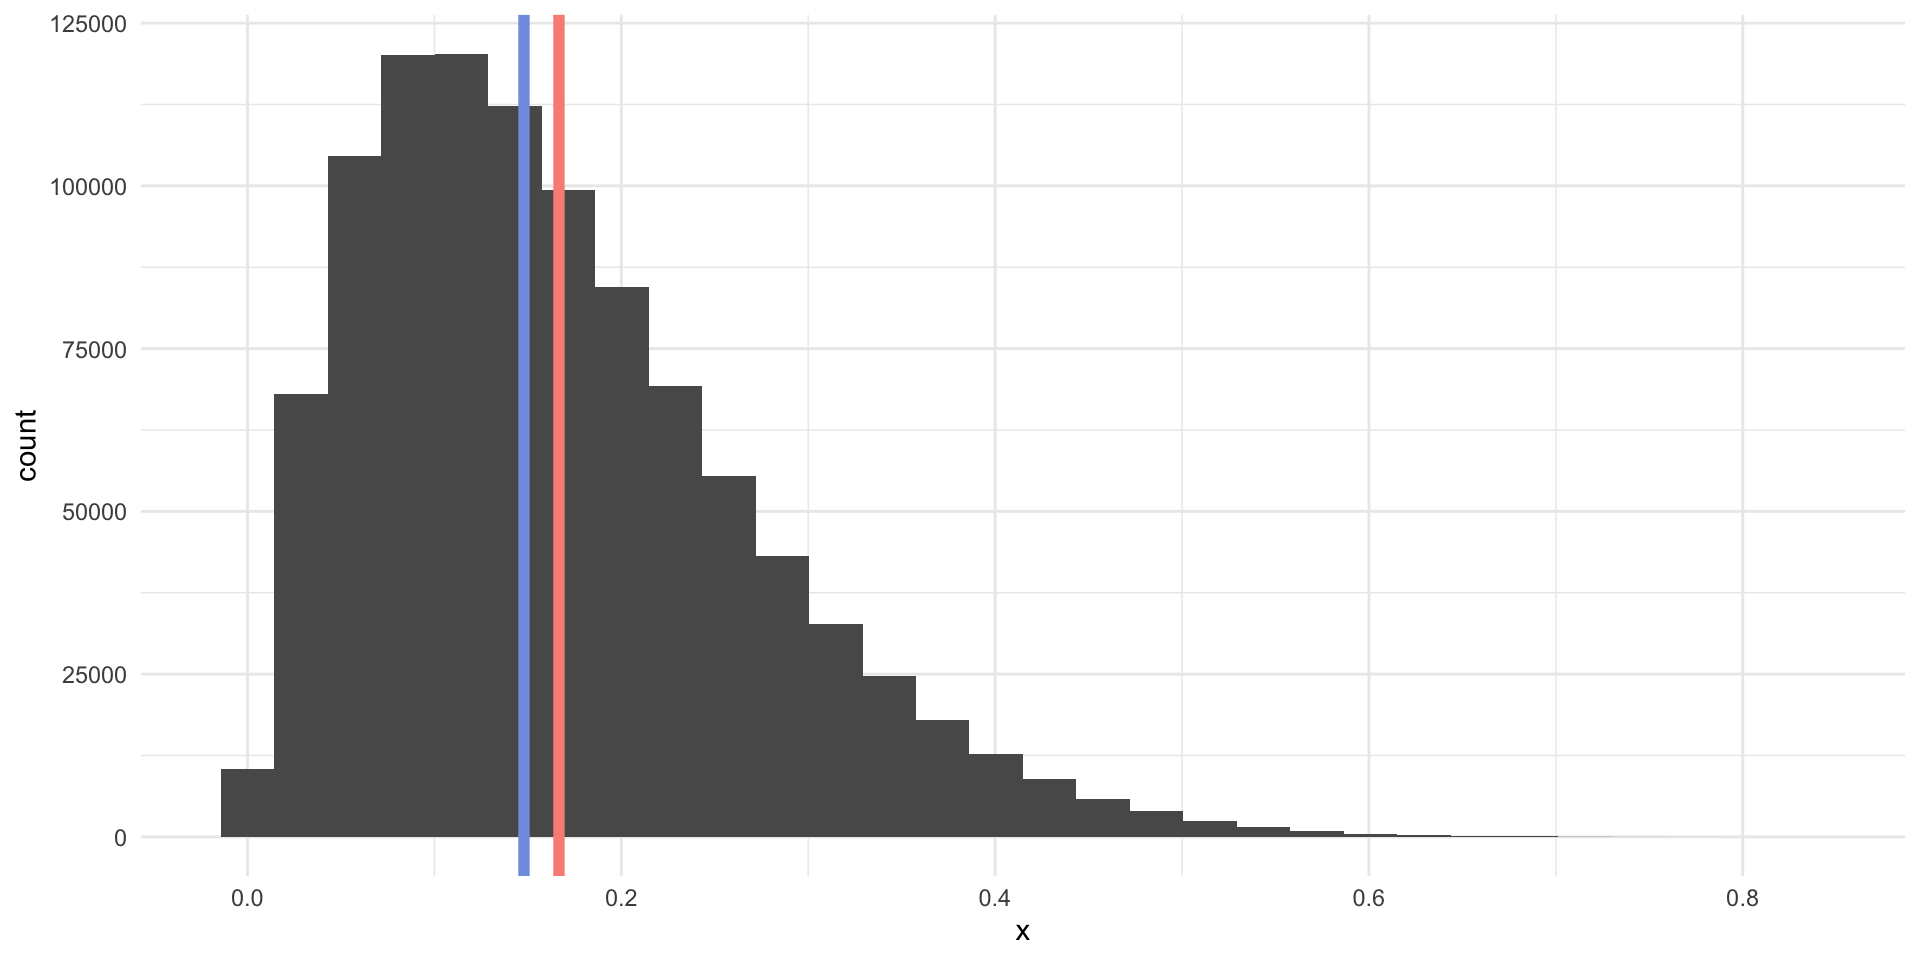
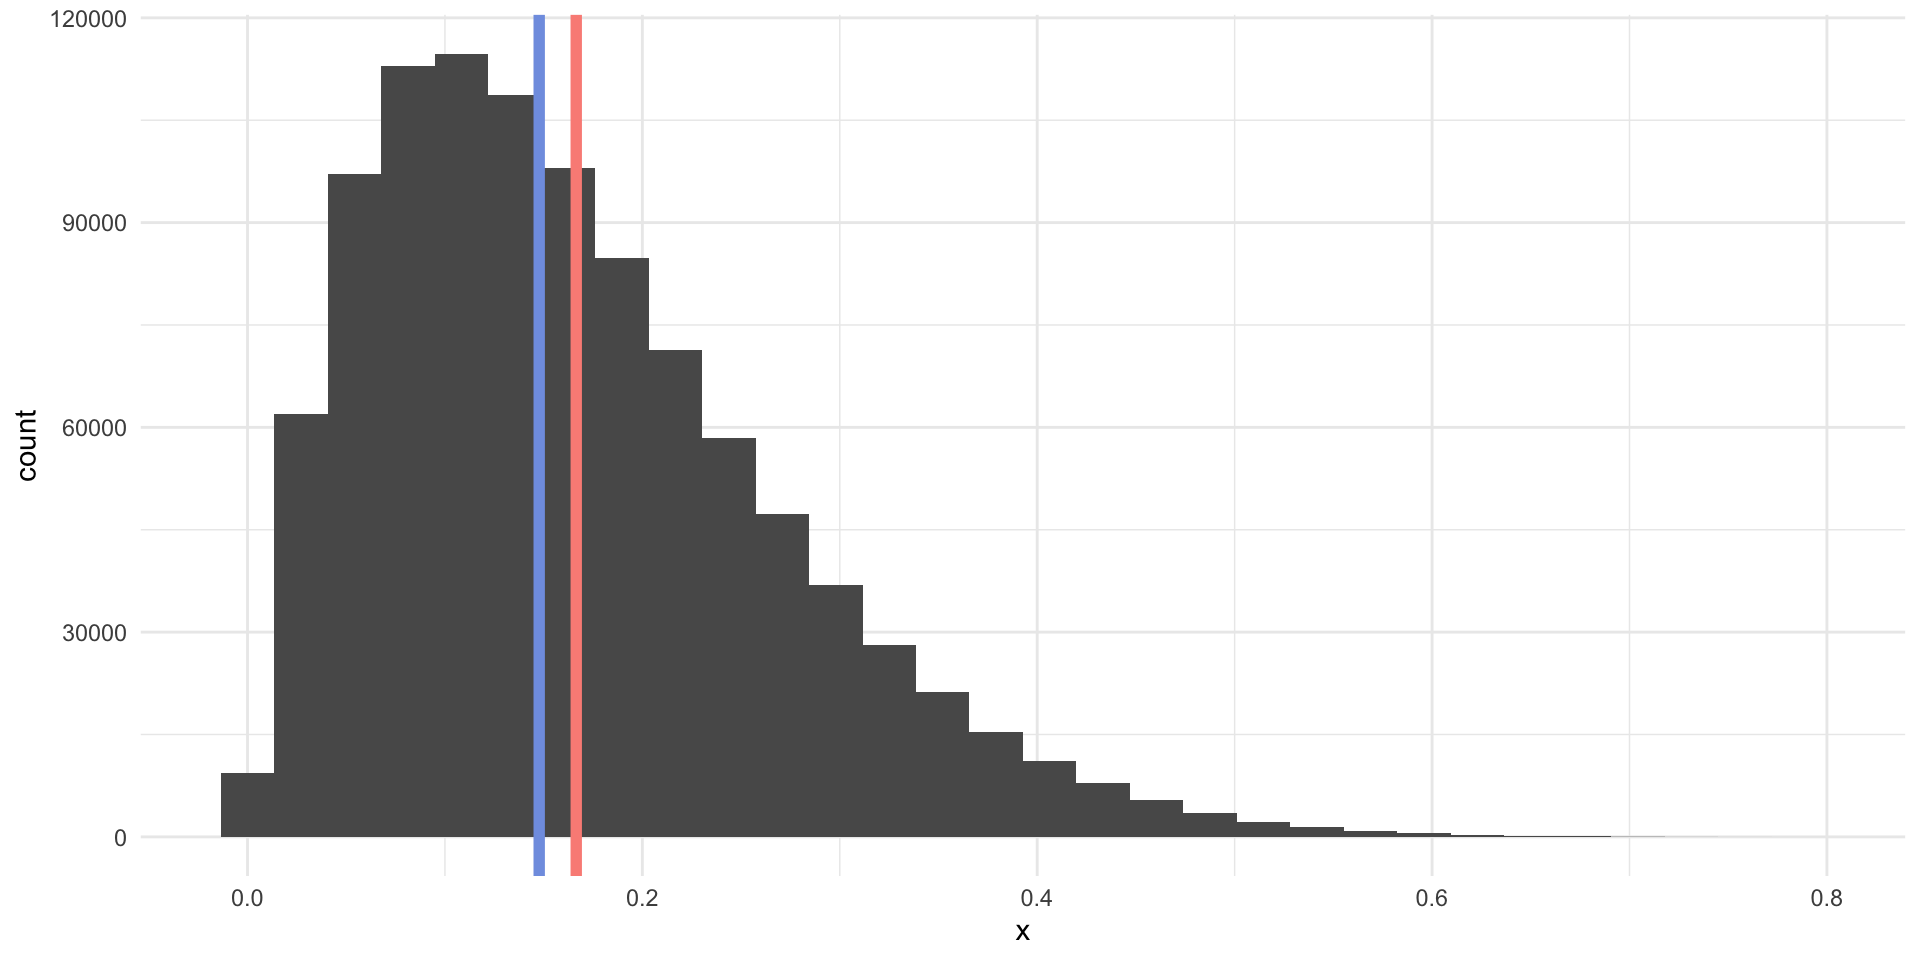
Update schedule to reflect updated syllabus

diff --git a/docs/schedule.html b/docs/schedule.html
@@ -143,106 +143,106 @@ ul.task-list li input[type="checkbox"] {
 </thead>
 <tbody>
 <tr class="odd">
-<td style="text-align: left; width: 12%; padding-right: 20px;">28 August</td>
+<td style="text-align: left; width: 12%; padding-right: 20px;">2023-08-28</td>
 <td style="text-align: left; width: 52%;">Course Introduction</td>
 <td style="text-align: center; width: 12%;"><a href="https://hgoers.github.io/GVPT622/content/01-introduction.html"><i class="fa-solid fa-book" aria-label="book"></i></a></td>
 <td style="text-align: center; width: 12%;"><p><i class="fa-solid fa-gears" aria-label="gears"></i></p></td>
-<td style="text-align: center; width: 12%;"><p><i class="fa-solid fa-pen-ruler" aria-label="pen-ruler"></i></p></td>
+<td style="text-align: center; width: 12%;"><a href="http://localhost:3933/content/https://github.com/hgoers/GVPT622_problem_sets/blob/main/problem_set_1.qmd"><i class="fa-solid fa-pen-ruler" aria-label="pen-ruler"></i></a></td>
 </tr>
 <tr class="even">
-<td style="text-align: left; width: 12%; padding-right: 20px;">11 September</td>
+<td style="text-align: left; width: 12%; padding-right: 20px;">2023-09-04</td>
+<td style="text-align: left; width: 52%;">No class</td>
+<td style="text-align: center; width: 12%;"><p><i class="fa-solid fa-book" aria-label="book"></i></p></td>
+<td style="text-align: center; width: 12%;"><p><i class="fa-solid fa-gears" aria-label="gears"></i></p></td>
+<td style="text-align: center; width: 12%;"><p><i class="fa-solid fa-pen-ruler" aria-label="pen-ruler"></i></p></td>
+</tr>
+<tr class="odd">
+<td style="text-align: left; width: 12%; padding-right: 20px;">2023-09-11</td>
 <td style="text-align: left; width: 52%;">Descriptive Statistics</td>
 <td style="text-align: center; width: 12%;"><a href="https://hgoers.github.io/GVPT622/content/02-descriptive_statistics.html"><i class="fa-solid fa-book" aria-label="book"></i></a></td>
 <td style="text-align: center; width: 12%;"><a href="http://localhost:3933/content/02-descriptive_statistics.html#section"><i class="fa-solid fa-gears" aria-label="gears"></i></a></td>
 <td style="text-align: center; width: 12%;"><p><i class="fa-solid fa-pen-ruler" aria-label="pen-ruler"></i></p></td>
 </tr>
-<tr class="odd">
-<td style="text-align: left; width: 12%; padding-right: 20px;">18 September</td>
-<td style="text-align: left; width: 52%;">Bivariate Relationships</td>
+<tr class="even">
+<td style="text-align: left; width: 12%; padding-right: 20px;">2023-09-18</td>
+<td style="text-align: left; width: 52%;">Relationships Between Two Variables</td>
 <td style="text-align: center; width: 12%;"><a href="https://hgoers.github.io/GVPT622/content/03-bivariate_relationships.html"><i class="fa-solid fa-book" aria-label="book"></i></a></td>
 <td style="text-align: center; width: 12%;"><a href="http://localhost:3933/content/03-bivariate_relationships.html#section"><i class="fa-solid fa-gears" aria-label="gears"></i></a></td>
 <td style="text-align: center; width: 12%;"><p><i class="fa-solid fa-pen-ruler" aria-label="pen-ruler"></i></p></td>
 </tr>
-<tr class="even">
-<td style="text-align: left; width: 12%; padding-right: 20px;">25 September</td>
+<tr class="odd">
+<td style="text-align: left; width: 12%; padding-right: 20px;">2023-09-25</td>
 <td style="text-align: left; width: 52%;">Research Design</td>
 <td style="text-align: center; width: 12%;"><a href="https://hgoers.github.io/GVPT622/content/04-research_design.html"><i class="fa-solid fa-book" aria-label="book"></i></a></td>
 <td style="text-align: center; width: 12%;"><p><i class="fa-solid fa-gears" aria-label="gears"></i></p></td>
 <td style="text-align: center; width: 12%;"><p><i class="fa-solid fa-pen-ruler" aria-label="pen-ruler"></i></p></td>
 </tr>
-<tr class="odd">
-<td style="text-align: left; width: 12%; padding-right: 20px;">2 October</td>
-<td style="text-align: left; width: 52%;">Applications</td>
+<tr class="even">
+<td style="text-align: left; width: 12%; padding-right: 20px;">2023-10-02</td>
+<td style="text-align: left; width: 52%;">Applications &amp; Midterm Exam Review</td>
 <td style="text-align: center; width: 12%;"><a href="https://hgoers.github.io/GVPT622/content/05-applications.html"><i class="fa-solid fa-book" aria-label="book"></i></a></td>
 <td style="text-align: center; width: 12%;"><p><i class="fa-solid fa-gears" aria-label="gears"></i></p></td>
 <td style="text-align: center; width: 12%;"><p><i class="fa-solid fa-pen-ruler" aria-label="pen-ruler"></i></p></td>
 </tr>
-<tr class="even">
-<td style="text-align: left; width: 12%; padding-right: 20px;">9 October</td>
-<td style="text-align: left; width: 52%;">Mid-term Exam I</td>
-<td style="text-align: center; width: 12%;"><p><i class="fa-solid fa-book" aria-label="book"></i></p></td>
+<tr class="odd">
+<td style="text-align: left; width: 12%; padding-right: 20px;">2023-10-09</td>
+<td style="text-align: left; width: 52%;">Probability Theory</td>
+<td style="text-align: center; width: 12%;"><a href="https://hgoers.github.io/GVPT622/content/06-probability_theory.html"><i class="fa-solid fa-book" aria-label="book"></i></a></td>
 <td style="text-align: center; width: 12%;"><a href="http://localhost:3933/content/06-probability_theory.html#section"><i class="fa-solid fa-gears" aria-label="gears"></i></a></td>
 <td style="text-align: center; width: 12%;"><p><i class="fa-solid fa-pen-ruler" aria-label="pen-ruler"></i></p></td>
 </tr>
-<tr class="odd">
-<td style="text-align: left; width: 12%; padding-right: 20px;">16 October</td>
-<td style="text-align: left; width: 52%;">Probability Theory</td>
-<td style="text-align: center; width: 12%;"><a href="https://hgoers.github.io/GVPT622/content/06-probability_theory.html"><i class="fa-solid fa-book" aria-label="book"></i></a></td>
+<tr class="even">
+<td style="text-align: left; width: 12%; padding-right: 20px;">2023-10-16</td>
+<td style="text-align: left; width: 52%;">Hypothesis Testing I</td>
+<td style="text-align: center; width: 12%;"><a href="https://hgoers.github.io/GVPT622/content/07-statistical_inference.html"><i class="fa-solid fa-book" aria-label="book"></i></a></td>
 <td style="text-align: center; width: 12%;"><a href="http://localhost:3933/content/07-statistical_inference.html#section"><i class="fa-solid fa-gears" aria-label="gears"></i></a></td>
 <td style="text-align: center; width: 12%;"><p><i class="fa-solid fa-pen-ruler" aria-label="pen-ruler"></i></p></td>
 </tr>
-<tr class="even">
-<td style="text-align: left; width: 12%; padding-right: 20px;">23 October</td>
-<td style="text-align: left; width: 52%;">Statistical Inference</td>
-<td style="text-align: center; width: 12%;"><a href="https://hgoers.github.io/GVPT622/content/07-statistical_inference.html"><i class="fa-solid fa-book" aria-label="book"></i></a></td>
-<td style="text-align: center; width: 12%;"><p><i class="fa-solid fa-gears" aria-label="gears"></i></p></td>
-<td style="text-align: center; width: 12%;"><p><i class="fa-solid fa-pen-ruler" aria-label="pen-ruler"></i></p></td>
-</tr>
 <tr class="odd">
-<td style="text-align: left; width: 12%; padding-right: 20px;">30 October</td>
-<td style="text-align: left; width: 52%;">Hypothesis Testing</td>
+<td style="text-align: left; width: 12%; padding-right: 20px;">2023-10-23</td>
+<td style="text-align: left; width: 52%;">Hypothesis Testing II</td>
 <td style="text-align: center; width: 12%;"><a href="https://hgoers.github.io/GVPT622/content/08_hypothesis_testing.html"><i class="fa-solid fa-book" aria-label="book"></i></a></td>
 <td style="text-align: center; width: 12%;"><p><i class="fa-solid fa-gears" aria-label="gears"></i></p></td>
 <td style="text-align: center; width: 12%;"><p><i class="fa-solid fa-pen-ruler" aria-label="pen-ruler"></i></p></td>
 </tr>
 <tr class="even">
-<td style="text-align: left; width: 12%; padding-right: 20px;">6 November</td>
-<td style="text-align: left; width: 52%;">Hypothesis Testing II</td>
+<td style="text-align: left; width: 12%; padding-right: 20px;">2023-10-30</td>
+<td style="text-align: left; width: 52%;">Hypothesis Testing III</td>
 <td style="text-align: center; width: 12%;"><a href="https://hgoers.github.io/GVPT622/content/09-hypothesis_testing.html"><i class="fa-solid fa-book" aria-label="book"></i></a></td>
 <td style="text-align: center; width: 12%;"><p><i class="fa-solid fa-gears" aria-label="gears"></i></p></td>
 <td style="text-align: center; width: 12%;"><p><i class="fa-solid fa-pen-ruler" aria-label="pen-ruler"></i></p></td>
 </tr>
 <tr class="odd">
-<td style="text-align: left; width: 12%; padding-right: 20px;">13 November</td>
-<td style="text-align: left; width: 52%;">Applications II</td>
+<td style="text-align: left; width: 12%; padding-right: 20px;">2023-11-06</td>
+<td style="text-align: left; width: 52%;">Applications &amp; Midterm Exam Review</td>
 <td style="text-align: center; width: 12%;"><a href="https://hgoers.github.io/GVPT622/content/10-applications.html"><i class="fa-solid fa-book" aria-label="book"></i></a></td>
 <td style="text-align: center; width: 12%;"><p><i class="fa-solid fa-gears" aria-label="gears"></i></p></td>
 <td style="text-align: center; width: 12%;"><p><i class="fa-solid fa-pen-ruler" aria-label="pen-ruler"></i></p></td>
 </tr>
 <tr class="even">
-<td style="text-align: left; width: 12%; padding-right: 20px;">20 November</td>
-<td style="text-align: left; width: 52%;">Mid-term Exam II</td>
-<td style="text-align: center; width: 12%;"><p><i class="fa-solid fa-book" aria-label="book"></i></p></td>
-<td style="text-align: center; width: 12%;"><p><i class="fa-solid fa-gears" aria-label="gears"></i></p></td>
-<td style="text-align: center; width: 12%;"><p><i class="fa-solid fa-pen-ruler" aria-label="pen-ruler"></i></p></td>
-</tr>
-<tr class="odd">
-<td style="text-align: left; width: 12%; padding-right: 20px;">27 November</td>
-<td style="text-align: left; width: 52%;">Regression</td>
+<td style="text-align: left; width: 12%; padding-right: 20px;">2023-11-13</td>
+<td style="text-align: left; width: 52%;">Regression Analysis I</td>
 <td style="text-align: center; width: 12%;"><a href="https://hgoers.github.io/GVPT622/content/11-regression.html"><i class="fa-solid fa-book" aria-label="book"></i></a></td>
 <td style="text-align: center; width: 12%;"><p><i class="fa-solid fa-gears" aria-label="gears"></i></p></td>
 <td style="text-align: center; width: 12%;"><p><i class="fa-solid fa-pen-ruler" aria-label="pen-ruler"></i></p></td>
 </tr>
+<tr class="odd">
+<td style="text-align: left; width: 12%; padding-right: 20px;">2023-11-20</td>
+<td style="text-align: left; width: 52%;">No class</td>
+<td style="text-align: center; width: 12%;"><p><i class="fa-solid fa-book" aria-label="book"></i></p></td>
+<td style="text-align: center; width: 12%;"><p><i class="fa-solid fa-gears" aria-label="gears"></i></p></td>
+<td style="text-align: center; width: 12%;"><p><i class="fa-solid fa-pen-ruler" aria-label="pen-ruler"></i></p></td>
+</tr>
 <tr class="even">
-<td style="text-align: left; width: 12%; padding-right: 20px;">4 December</td>
-<td style="text-align: left; width: 52%;">Multiple Regression</td>
+<td style="text-align: left; width: 12%; padding-right: 20px;">2023-11-27</td>
+<td style="text-align: left; width: 52%;">Regression Analysis II</td>
 <td style="text-align: center; width: 12%;"><a href="https://hgoers.github.io/GVPT622/content/12-multiple_regression.html"><i class="fa-solid fa-book" aria-label="book"></i></a></td>
 <td style="text-align: center; width: 12%;"><p><i class="fa-solid fa-gears" aria-label="gears"></i></p></td>
 <td style="text-align: center; width: 12%;"><p><i class="fa-solid fa-pen-ruler" aria-label="pen-ruler"></i></p></td>
 </tr>
 <tr class="odd">
-<td style="text-align: left; width: 12%; padding-right: 20px;">11 December</td>
-<td style="text-align: left; width: 52%;">Conclusion</td>
+<td style="text-align: left; width: 12%; padding-right: 20px;">2023-12-04</td>
+<td style="text-align: left; width: 52%;">Regression Analysis Extensions &amp; Final Exam Review</td>
 <td style="text-align: center; width: 12%;"><a href="https://hgoers.github.io/GVPT622/content/13-conclusion.html"><i class="fa-solid fa-book" aria-label="book"></i></a></td>
 <td style="text-align: center; width: 12%;"><p><i class="fa-solid fa-gears" aria-label="gears"></i></p></td>
 <td style="text-align: center; width: 12%;"><p><i class="fa-solid fa-pen-ruler" aria-label="pen-ruler"></i></p></td>

diff --git a/docs/content/02-descriptive_statistics.html b/docs/content/02-descriptive_statistics.html
@@ -819,16 +819,16 @@ s^2 = \frac{\Sigma(x_i - \bar{x})^2}{n - 1}
 <pre><code># A tibble: 1,000,000 × 4
         x    mean   diff  diff_2
     &lt;dbl&gt;   &lt;dbl&gt;  &lt;dbl&gt;   &lt;dbl&gt;
- 1 -2.10  0.00373 -2.11   4.44  
- 2  0.484 0.00373  0.480  0.231 
- 3  1.44  0.00373  1.44   2.08  
- 4 -1.56  0.00373 -1.56   2.44  
- 5 -3.93  0.00373 -3.93  15.5   
- 6 -3.87  0.00373 -3.87  15.0   
- 7  0.140 0.00373  0.136  0.0185
- 8  1.32  0.00373  1.32   1.73  
- 9 -0.808 0.00373 -0.812  0.659 
-10 -0.589 0.00373 -0.593  0.351 
+ 1  1.12  0.00157  1.12   1.25  
+ 2  2.75  0.00157  2.75   7.55  
+ 3 -1.62  0.00157 -1.62   2.64  
+ 4 -4.40  0.00157 -4.40  19.4   
+ 5  0.675 0.00157  0.674  0.454 
+ 6 -1.12  0.00157 -1.12   1.26  
+ 7 -0.568 0.00157 -0.570  0.324 
+ 8  0.323 0.00157  0.322  0.104 
+ 9  0.201 0.00157  0.200  0.0399
+10  1.06  0.00157  1.06   1.12  
 # ℹ 999,990 more rows</code></pre>
 </div>
 </div>
@@ -838,7 +838,7 @@ s^2 = \frac{\Sigma(x_i - \bar{x})^2}{n - 1}
 <span id="cb29-2"><a href="#cb29-2" aria-hidden="true" tabindex="-1"></a></span>
 <span id="cb29-3"><a href="#cb29-3" aria-hidden="true" tabindex="-1"></a>wide_var</span></code><button title="Copy to Clipboard" class="code-copy-button"><i class="bi"></i></button></pre></div>
 <div class="cell-output cell-output-stdout">
-<pre><code>[1] 3.990402</code></pre>
+<pre><code>[1] 3.998047</code></pre>
 </div>
 </div>
 <p>We can compare this to the variance for our narrower distribution.</p>
@@ -854,7 +854,7 @@ s^2 = \frac{\Sigma(x_i - \bar{x})^2}{n - 1}
 <span id="cb31-9"><a href="#cb31-9" aria-hidden="true" tabindex="-1"></a></span>
 <span id="cb31-10"><a href="#cb31-10" aria-hidden="true" tabindex="-1"></a>narrow_var</span></code><button title="Copy to Clipboard" class="code-copy-button"><i class="bi"></i></button></pre></div>
 <div class="cell-output cell-output-stdout">
-<pre><code>[1] 1.000592</code></pre>
+<pre><code>[1] 0.9976539</code></pre>
 </div>
 </div>
 <p>It is, in fact, smaller!</p>
@@ -863,14 +863,14 @@ s^2 = \frac{\Sigma(x_i - \bar{x})^2}{n - 1}
 <div class="sourceCode cell-code" id="cb33"><pre class="sourceCode r code-with-copy"><code class="sourceCode r"><span id="cb33-1"><a href="#cb33-1" aria-hidden="true" tabindex="-1"></a><span class="fu">var</span>(wide_dist)</span></code><button title="Copy to Clipboard" class="code-copy-button"><i class="bi"></i></button></pre></div>
 <div class="cell-output cell-output-stdout">
 <pre><code>         x
-x 3.990402</code></pre>
+x 3.998047</code></pre>
 </div>
 </div>
 <div class="cell">
 <div class="sourceCode cell-code" id="cb35"><pre class="sourceCode r code-with-copy"><code class="sourceCode r"><span id="cb35-1"><a href="#cb35-1" aria-hidden="true" tabindex="-1"></a><span class="fu">var</span>(narrow_dist)</span></code><button title="Copy to Clipboard" class="code-copy-button"><i class="bi"></i></button></pre></div>
 <div class="cell-output cell-output-stdout">
-<pre><code>         x
-x 1.000592</code></pre>
+<pre><code>          x
+x 0.9976539</code></pre>
 </div>
 </div>
 <div class="cell">
@@ -887,26 +887,26 @@ x TRUE</code></pre>
 <div class="cell">
 <div class="sourceCode cell-code" id="cb39"><pre class="sourceCode r code-with-copy"><code class="sourceCode r"><span id="cb39-1"><a href="#cb39-1" aria-hidden="true" tabindex="-1"></a><span class="fu">sqrt</span>(wide_var)</span></code><button title="Copy to Clipboard" class="code-copy-button"><i class="bi"></i></button></pre></div>
 <div class="cell-output cell-output-stdout">
-<pre><code>[1] 1.997599</code></pre>
+<pre><code>[1] 1.999512</code></pre>
 </div>
 </div>
 <div class="cell">
 <div class="sourceCode cell-code" id="cb41"><pre class="sourceCode r code-with-copy"><code class="sourceCode r"><span id="cb41-1"><a href="#cb41-1" aria-hidden="true" tabindex="-1"></a><span class="fu">sqrt</span>(narrow_var)</span></code><button title="Copy to Clipboard" class="code-copy-button"><i class="bi"></i></button></pre></div>
 <div class="cell-output cell-output-stdout">
-<pre><code>[1] 1.000296</code></pre>
+<pre><code>[1] 0.9988263</code></pre>
 </div>
 </div>
 <p>You can get this directly using <code>sd()</code>:</p>
 <div class="cell">
 <div class="sourceCode cell-code" id="cb43"><pre class="sourceCode r code-with-copy"><code class="sourceCode r"><span id="cb43-1"><a href="#cb43-1" aria-hidden="true" tabindex="-1"></a><span class="fu">sd</span>(wide_dist<span class="sc">$</span>x)</span></code><button title="Copy to Clipboard" class="code-copy-button"><i class="bi"></i></button></pre></div>
 <div class="cell-output cell-output-stdout">
-<pre><code>[1] 1.997599</code></pre>
+<pre><code>[1] 1.999512</code></pre>
 </div>
 </div>
 <div class="cell">
 <div class="sourceCode cell-code" id="cb45"><pre class="sourceCode r code-with-copy"><code class="sourceCode r"><span id="cb45-1"><a href="#cb45-1" aria-hidden="true" tabindex="-1"></a><span class="fu">sd</span>(narrow_dist<span class="sc">$</span>x)</span></code><button title="Copy to Clipboard" class="code-copy-button"><i class="bi"></i></button></pre></div>
 <div class="cell-output cell-output-stdout">
-<pre><code>[1] 1.000296</code></pre>
+<pre><code>[1] 0.9988263</code></pre>
 </div>
 </div>
 <p>If you look back to our graphs, you will see that I set the standard deviations explicitly when I generated the data: <code>rnorm()</code> takes an <code>sd</code> argument. This is great because we can confirm that the standard deviations for the wide and narrow distributions are 2 and 1 respectively (with a little bit of noise).</p>
@@ -972,12 +972,12 @@ z_i = \frac{x_i - \mu_x}{\sigma_x}
 <pre><code># A tibble: 6 × 4
       x  mean    sd z_score
   &lt;dbl&gt; &lt;dbl&gt; &lt;dbl&gt;   &lt;dbl&gt;
-1  2.92  5.00  2.00  -1.04 
-2  4.66  5.00  2.00  -0.170
-3  5.23  5.00  2.00   0.117
-4  3.03  5.00  2.00  -0.987
-5  7.33  5.00  2.00   1.16 
-6  5.90  5.00  2.00   0.451</code></pre>
+1  3.71  5.00  2.00  -0.646
+2  7.89  5.00  2.00   1.45 
+3  4.73  5.00  2.00  -0.135
+4  6.80  5.00  2.00   0.900
+5  4.50  5.00  2.00  -0.252
+6  5.69  5.00  2.00   0.343</code></pre>
 </div>
 </div>
 <p>We can confirm this:</p>

diff --git a/docs/content/03-bivariate_relationships.html b/docs/content/03-bivariate_relationships.html
@@ -519,7 +519,7 @@ life Exp_x = 30 + 4 * logGdpPerCap_x
 <p>Well, we probably haven’t produced the best model we can (this isn’t the best line!). We just picked those numbers out of thin air. Let’s fit a linear OLS regression and see if we improve our ability to predict what we have seen in the wild.</p>
 <section id="how-do-we-calculate-the-constant-beta_0-using-ols-regression" class="level4">
 <h4 class="anchored" data-anchor-id="how-do-we-calculate-the-constant-beta_0-using-ols-regression">How do we calculate the constant (<span class="math inline">\(\beta_0\)</span>) using OLS regression?</h4>
-<p>Remember, OLS regression simply finds the line that minimizes the distance between itself and all the data points. The constant that minimizes this distance is <strong>the mean of <span class="math inline">\(Y\)</span> minus <span class="math inline">\(\beta_1\)</span> times the mean of <span class="math inline">\(X\)</span></strong>.</p>
+<p>Remember, OLS regression simply finds the line that minimizes the distance between itself and all the data points. The constant that minimizes this distance is <strong>the mean of</strong> <span class="math inline">\(Y\)</span> minus <span class="math inline">\(\beta_1\)</span> times the mean of <span class="math inline">\(X\)</span>.</p>
 <p>So, the constant that best predicts a country’s average life expectancy based on its logged GDP per capita is equal to the average life expectancy across our sample (72.3 years) minus the average logged GDP per capita ($8.80, or $6,633.36 GDP per capita) transformed by <span class="math inline">\(\beta_1\)</span>.</p>
 <p>So…</p>
 </section>
@@ -805,7 +805,7 @@ life Exp_x = \beta_0 + \beta_1 logGdpPerCap_x
 <p><span class="math display">\[
 life Exp_x = \beta_0 + \beta_1 logGdpPerCap_x + \epsilon
 \]</span></p>
-<p>We run into issues when these are non-random things bundled up into the difference between what our model predicts and what we actually observe. We will discuss this more in later classes.</p>
+<p>We run into issues when there are non-random things bundled up into the difference between what our model predicts and what we actually observe. We will discuss this more in later classes.</p>
 </section>
 </section>
 <section id="a-model-wide-value-for-error" class="level3">
